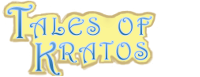
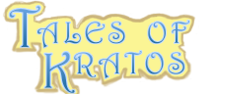
Editing title screen

diff --git a/lib/game/main.js b/lib/game/main.js
@@ -1050,7 +1050,7 @@ ig.module(
             var x = ig.system.width/2,
             y = ig.system.height/2;
             this.titleButton.draw(x - 76, y - 22);
-            this.titleFont.draw(80, 10);
+            this.titleFont.draw(60, 10);
             this.fontContent10.draw('Click to Start', x, y, ig.Font.ALIGN.CENTER);
 
             // Screen fade transition effect
